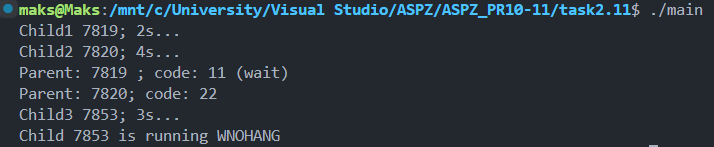
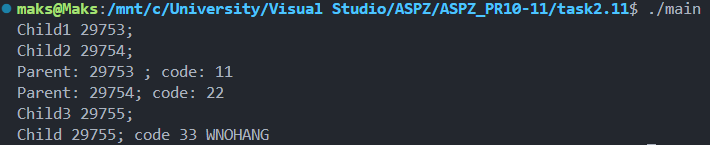
.

diff --git a/task2.11/main.c b/task2.11/main.c
@@ -9,22 +9,20 @@ int main() {
 
     pid1 = fork();
     if (pid1 == 0) {
-        printf("Child1 %d; 2s...\n", getpid());
-        sleep(2);
+        printf("Child1 %d;\n", getpid());
         exit(11); 
     }
 
     pid2 = fork();
     if (pid2 == 0) {
-        printf("Child2 %d; 4s...\n", getpid());
-        sleep(4);
+        printf("Child2 %d;\n", getpid());
         exit(22);
     }
 
     // wait(NULL)
     pid_t wpid = wait(&status);
     if (WIFEXITED(status)) {
-        printf("Parent: %d ; code: %d (wait)\n", wpid, WEXITSTATUS(status));
+        printf("Parent: %d ; code: %d\n", wpid, WEXITSTATUS(status));
     }
 
     // PID
@@ -36,8 +34,7 @@ int main() {
     // WNOHANG
     pid_t pid3 = fork();
     if (pid3 == 0) {
-        printf("Child3 %d; 3s...\n", getpid());
-        sleep(3);
+        printf("Child3 %d;\n", getpid());
         exit(33);
     }
 
